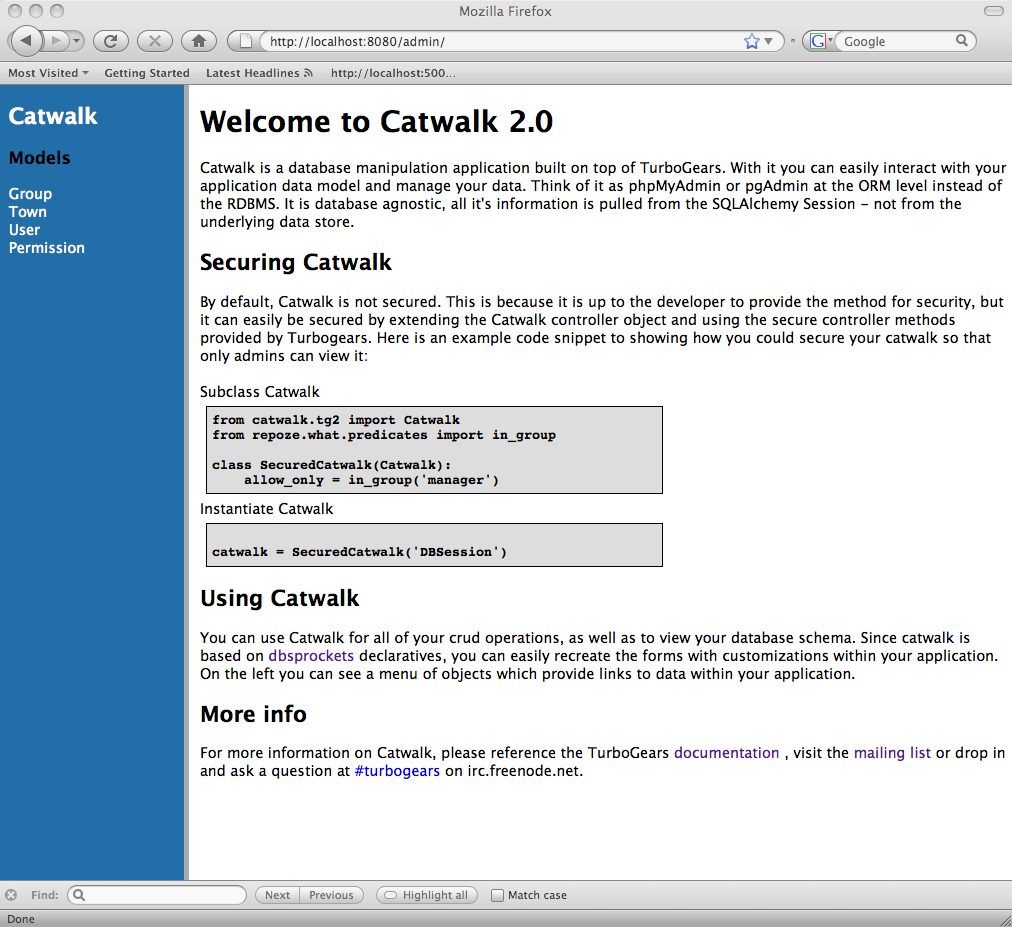
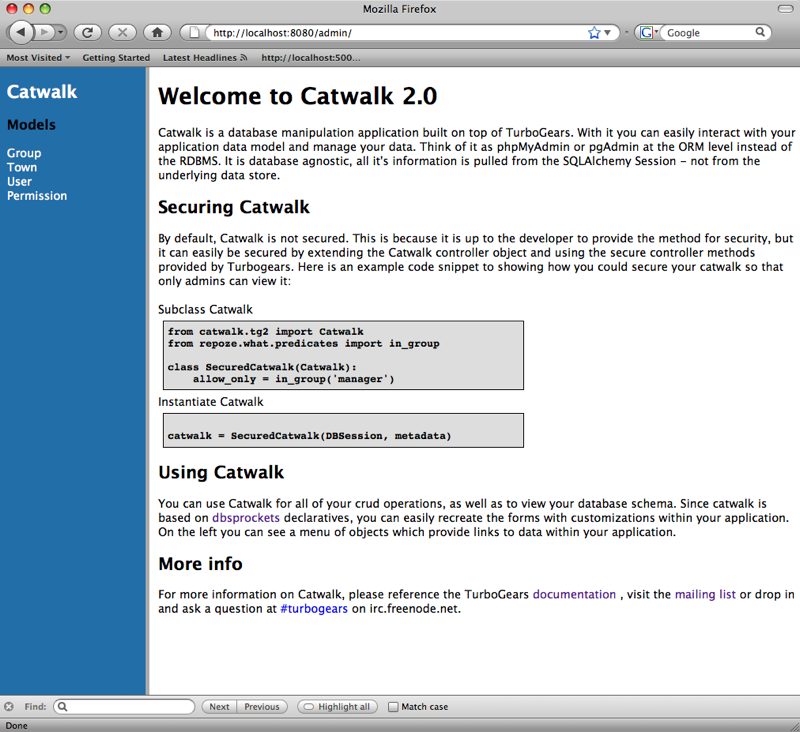
fixed minor problem with catwalk homepage

diff --git a/catwalk/templates/index.html b/catwalk/templates/index.html
@@ -39,7 +39,7 @@ class SecuredCatwalk(Catwalk):
         Instantiate Catwalk
 <pre class="code">
 
-catwalk = SecuredCatwalk('DBSession')
+catwalk = SecuredCatwalk(DBSession, metadata)
 </pre>
 
         <h2>Using Catwalk</h2>
